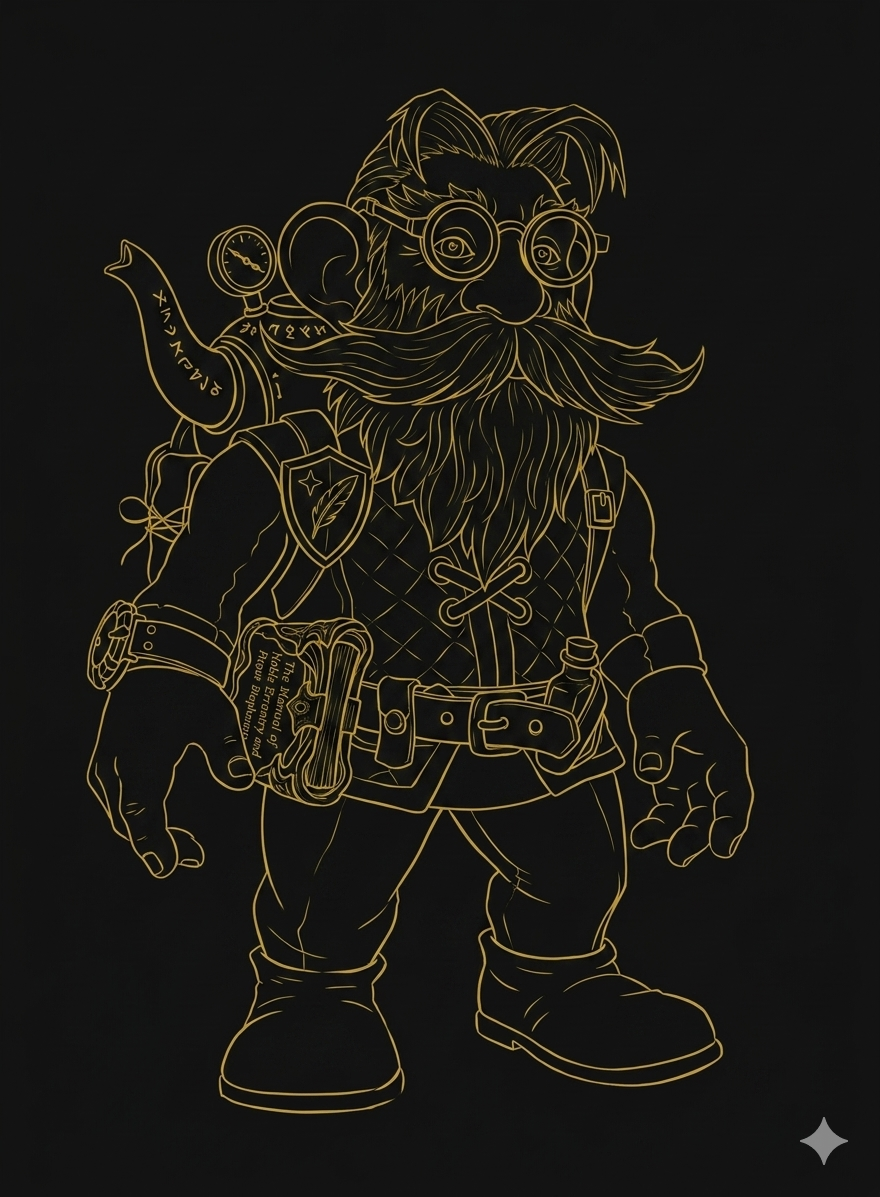
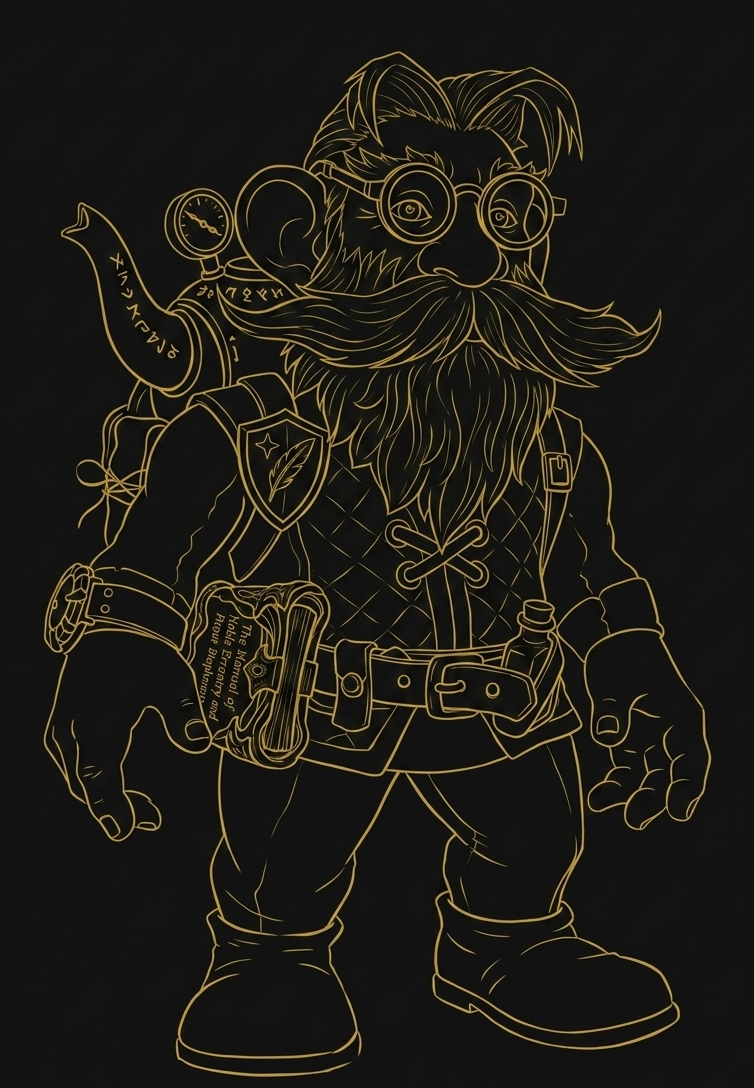
refactor: remove welcome chime functionality and associated assets

diff --git a/scripts.js b/scripts.js
@@ -863,7 +863,7 @@ fetchPosts();
 initGallerySearch();
 
 // ==========================
-// Playlist + welcome chime
+// Playlist
 // ==========================
 const PLAYLIST_REPO = "Yukisando/yfc.github.io";
 const PLAYLIST_DIR = "assets/playlist";
@@ -883,7 +883,6 @@ const PLAYLIST_CACHE_KEY = "yfc-playlist";
 const PLAYLIST_CACHE_TTL = 1000 * 60 * 60 * 6; // 6 hours
 
 let PLAYLIST_TRACKS = [];
-const WELCOME_CHIME = "assets/69. Quest Complete.mp3";
 
 // True only on the very first page load of this browser session
 const IS_FIRST_SESSION_VISIT = !sessionStorage.getItem("yfc-session-started");
@@ -1132,17 +1131,6 @@ playlistAudio.addEventListener("pause", () => {
   }
 });
 
-// Chime played when user opens the gallery.
-function playGalleryChime() {
-  try {
-    const chime = new Audio(encodeURI(WELCOME_CHIME));
-    chime.volume = 0.6;
-    const attempt = chime.play();
-    if (attempt && typeof attempt.catch === "function") {
-      attempt.catch(() => {});
-    }
-  } catch (_) {}
-}
 
 // ==========================
 // Random emotes (yuki button)